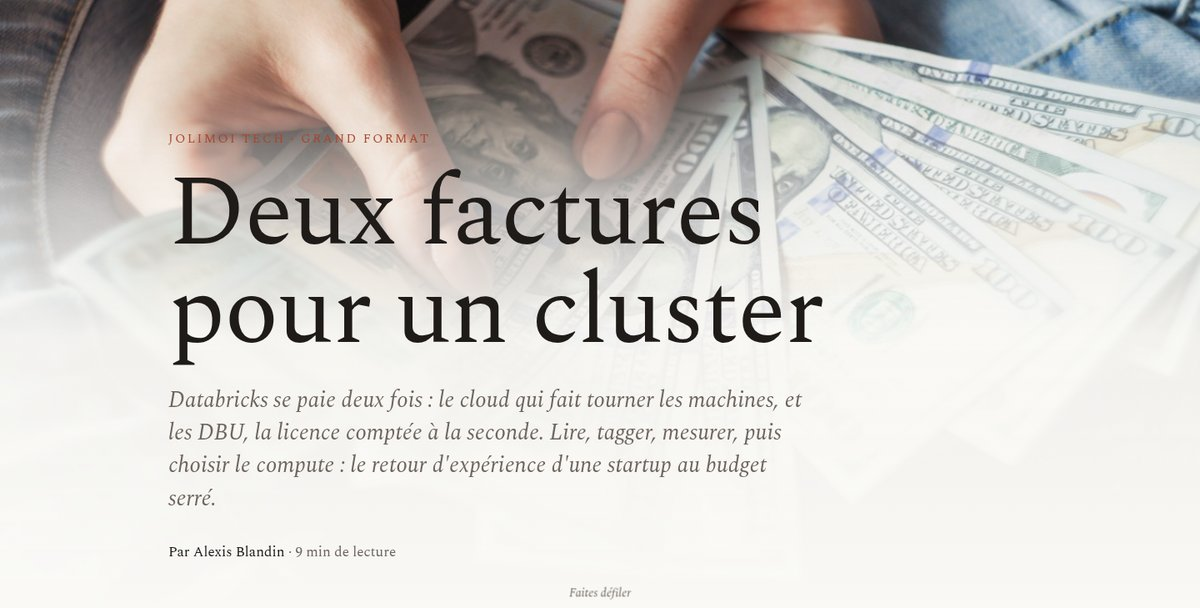
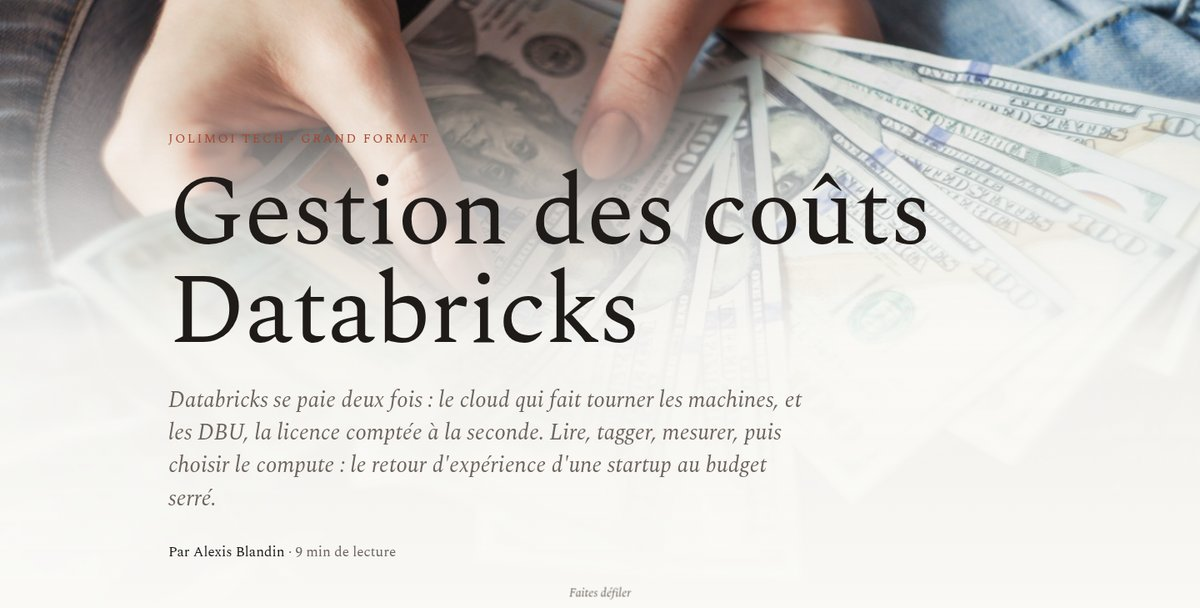
fix(works): restore the original article titles on the four long reads (#147)

Changed region(s): [[0.1233, 0.4375, 0.6783, 0.5938], [0.2467, 0.2812, 0.7708, 0.4062], [0.1233, 0.2812, 0.2158, 0.4062]]

diff --git a/longread/pieges-passage-echelle.html b/longread/pieges-passage-echelle.html
@@ -4,12 +4,12 @@ permalink: /longread/pieges-passage-echelle/
 sitemap: false
 work: true
 kind: longread
-title: "Les pièges qu'on se tend"
+title: "Les pièges cachés du passage à l'échelle des opérations data, et comment les surmonter"
 date: 2025-01-28
 excerpt: "Passer à l'échelle des opérations data : cinq règles et les pièges qu'elles évitent, tirées d'échanges avec des Head of Data, CTO, CEO et CPO."
 excerpt_en: "Scaling data operations: five rules and the traps they avoid, drawn from conversations with Heads of Data, CTOs, CEOs and CPOs."
 header_image: /assets/images/travaux/pieges-passage-echelle.jpg
-header_image_alt: "Ouverture du grand format Les pièges qu'on se tend"
+header_image_alt: "Ouverture du grand format Les pièges cachés du passage à l'échelle des opérations data, et comment les surmonter"
 redirect_from:
   - /fr/2025/01/28/les-pieges-caches-du-passage-a-echelle-des-operations-data/
   - /en/2025/01/28/the-hidden-traps-of-scaling-data-operations-and-ho/
@@ -19,9 +19,9 @@ redirect_from:
 <head>
   <meta charset="utf-8">
   <meta name="viewport" content="width=device-width, initial-scale=1, viewport-fit=cover">
-  <title>Les pièges qu'on se tend</title>
+  <title>Les pièges cachés du passage à l'échelle des opérations data, et comment les surmonter</title>
   <meta name="description" content="Grand format : les pièges du passage à l'échelle des opérations data.">
-  <meta property="og:title" content="Les pièges qu'on se tend">
+  <meta property="og:title" content="Les pièges cachés du passage à l'échelle des opérations data, et comment les surmonter">
   <meta property="og:type" content="article">
   <meta property="og:url" content="https://11h.dev/longread/pieges-passage-echelle/">
   <meta property="og:image" content="https://11h.dev/assets/images/travaux/pieges-passage-echelle.jpg">
@@ -33,7 +33,7 @@ redirect_from:
   </style>
 </head>
 <body>
-  <iframe id="deck" src="/apps/pieges-passage-echelle/" title="Les pièges qu'on se tend" allow="fullscreen" allowfullscreen></iframe>
+  <iframe id="deck" src="/apps/pieges-passage-echelle/" title="Les pièges cachés du passage à l'échelle des opérations data, et comment les surmonter" allow="fullscreen" allowfullscreen></iframe>
   <script>document.getElementById('deck').addEventListener('load', e => e.target.contentWindow.focus());</script>
 </body>
 </html>

diff --git a/longread/multilabel-llm.html b/longread/multilabel-llm.html
@@ -4,13 +4,13 @@ permalink: /longread/multilabel-llm/
 sitemap: false
 work: true
 kind: longread
-title: "Un livre, plusieurs rayons"
+title: "Multi-label Classification Problems with Large Language Models"
 date: 2024-08-06
 event: "Jolimoi Tech"
 excerpt: "Classifier du texte en multi-label avec un LLM, sans jeu d'entraînement : few-shot, coût des tokens, métriques et production. Avec Martin Labenne, d'après notre article sur le blog tech de Jolimoi."
 excerpt_en: "Multi-label text classification with an LLM, without a training set: few-shot prompting, token costs, metrics and production. With Martin Labenne, based on our article on the Jolimoi tech blog."
 header_image: /assets/images/travaux/multilabel-llm.jpg
-header_image_alt: "Ouverture du grand format Un livre, plusieurs rayons"
+header_image_alt: "Ouverture du grand format Multi-label Classification Problems with Large Language Models"
 redirect_from:
   - /talk/multilabel-llm/
 ---
@@ -19,9 +19,9 @@ redirect_from:
 <head>
   <meta charset="utf-8">
   <meta name="viewport" content="width=device-width, initial-scale=1, viewport-fit=cover">
-  <title>Un livre, plusieurs rayons</title>
+  <title>Multi-label Classification Problems with Large Language Models</title>
   <meta name="description" content="Grand format : classifier du texte en multi-label avec un LLM. Alexis Blandin et Martin Labenne, Jolimoi.">
-  <meta property="og:title" content="Un livre, plusieurs rayons">
+  <meta property="og:title" content="Multi-label Classification Problems with Large Language Models">
   <meta property="og:type" content="article">
   <meta property="og:url" content="https://11h.dev/longread/multilabel-llm/">
   <meta property="og:image" content="https://11h.dev/assets/images/travaux/multilabel-llm.jpg">
@@ -33,7 +33,7 @@ redirect_from:
   </style>
 </head>
 <body>
-  <iframe id="deck" src="/apps/multilabel-llm/" title="Un livre, plusieurs rayons" allow="fullscreen" allowfullscreen></iframe>
+  <iframe id="deck" src="/apps/multilabel-llm/" title="Multi-label Classification Problems with Large Language Models" allow="fullscreen" allowfullscreen></iframe>
   <script>document.getElementById('deck').addEventListener('load', e => e.target.contentWindow.focus());</script>
 </body>
 </html>

diff --git a/longread/mysql-s3-dms.html b/longread/mysql-s3-dms.html
@@ -4,12 +4,12 @@ permalink: /longread/mysql-s3-dms/
 sitemap: false
 work: true
 kind: longread
-title: "Deux ans pour ne plus y penser"
+title: "MySQL vers S3 avec AWS DMS : ce qui marche vraiment en production"
 date: 2025-12-15
 excerpt: "MySQL vers S3 avec AWS DMS : sept leçons de production, de la partition au binlog, pour ingérer des centaines de To sans presque aucune maintenance."
 excerpt_en: "MySQL to S3 with AWS DMS: seven production lessons, from partitioning to binlogs, to ingest hundreds of TB with almost no maintenance."
 header_image: /assets/images/travaux/mysql-s3-dms.jpg
-header_image_alt: "Ouverture du grand format Deux ans pour ne plus y penser"
+header_image_alt: "Ouverture du grand format MySQL vers S3 avec AWS DMS : ce qui marche vraiment en production"
 redirect_from:
   - /fr/2025/12/15/mysql-vers-s3-avec-aws-dms-ce-qui-marche-vraiment-en-prod/
   - /en/2025/12/15/mysql-to-s3-with-aws-dms-what-actually-works-in-pr/
@@ -19,9 +19,9 @@ redirect_from:
 <head>
   <meta charset="utf-8">
   <meta name="viewport" content="width=device-width, initial-scale=1, viewport-fit=cover">
-  <title>Deux ans pour ne plus y penser</title>
+  <title>MySQL vers S3 avec AWS DMS : ce qui marche vraiment en production</title>
   <meta name="description" content="Grand format : MySQL vers S3 avec AWS DMS, ce qui marche en production.">
-  <meta property="og:title" content="Deux ans pour ne plus y penser">
+  <meta property="og:title" content="MySQL vers S3 avec AWS DMS : ce qui marche vraiment en production">
   <meta property="og:type" content="article">
   <meta property="og:url" content="https://11h.dev/longread/mysql-s3-dms/">
   <meta property="og:image" content="https://11h.dev/assets/images/travaux/mysql-s3-dms.jpg">
@@ -33,7 +33,7 @@ redirect_from:
   </style>
 </head>
 <body>
-  <iframe id="deck" src="/apps/mysql-s3-dms/" title="Deux ans pour ne plus y penser" allow="fullscreen" allowfullscreen></iframe>
+  <iframe id="deck" src="/apps/mysql-s3-dms/" title="MySQL vers S3 avec AWS DMS : ce qui marche vraiment en production" allow="fullscreen" allowfullscreen></iframe>
   <script>document.getElementById('deck').addEventListener('load', e => e.target.contentWindow.focus());</script>
 </body>
 </html>

diff --git a/longread/databricks-couts.html b/longread/databricks-couts.html
@@ -4,13 +4,13 @@ permalink: /longread/databricks-couts/
 sitemap: false
 work: true
 kind: longread
-title: "Deux factures pour un cluster"
+title: "Gestion des coûts Databricks"
 date: 2024-06-17
 event: "Meetup Databricks"
 excerpt: "Databricks se paie deux fois, en cloud et en DBU. Lire la facture, tagger, interroger les tables système, choisir le compute et faire le calcul de Photon."
 excerpt_en: "Databricks bills you twice, for the cloud and for DBUs. Reading the bill, tagging, querying system tables, choosing compute and doing the Photon math."
 header_image: /assets/images/travaux/databricks-couts.jpg
-header_image_alt: "Ouverture du grand format Deux factures pour un cluster"
+header_image_alt: "Ouverture du grand format Gestion des coûts Databricks"
 redirect_from:
   - /fr/2024/06/17/gestion-des-couts-databricks/
   - /en/2024/06/17/databricks-cost-management/
@@ -20,9 +20,9 @@ redirect_from:
 <head>
   <meta charset="utf-8">
   <meta name="viewport" content="width=device-width, initial-scale=1, viewport-fit=cover">
-  <title>Deux factures pour un cluster</title>
+  <title>Gestion des coûts Databricks</title>
   <meta name="description" content="Grand format : maîtriser les coûts Databricks, retour d'expérience Jolimoi.">
-  <meta property="og:title" content="Deux factures pour un cluster">
+  <meta property="og:title" content="Gestion des coûts Databricks">
   <meta property="og:type" content="article">
   <meta property="og:url" content="https://11h.dev/longread/databricks-couts/">
   <meta property="og:image" content="https://11h.dev/assets/images/travaux/databricks-couts.jpg">
@@ -34,7 +34,7 @@ redirect_from:
   </style>
 </head>
 <body>
-  <iframe id="deck" src="/apps/databricks-couts/" title="Deux factures pour un cluster" allow="fullscreen" allowfullscreen></iframe>
+  <iframe id="deck" src="/apps/databricks-couts/" title="Gestion des coûts Databricks" allow="fullscreen" allowfullscreen></iframe>
   <script>document.getElementById('deck').addEventListener('load', e => e.target.contentWindow.focus());</script>
 </body>
 </html>

diff --git a/apps/mysql-s3-dms/index.html b/apps/mysql-s3-dms/index.html
@@ -3,7 +3,7 @@
 <head>
 <meta charset="utf-8">
 <meta name="viewport" content="width=device-width, initial-scale=1, viewport-fit=cover">
-<title>Deux ans pour ne plus y penser</title>
+<title>MySQL vers S3 avec AWS DMS : ce qui marche vraiment en production</title>
 <meta name="description" content="MySQL vers S3 avec AWS DMS : sept leçons de production, de la partition au binlog, pour ingérer des centaines de To sans presque aucune maintenance.">
 <link rel="preconnect" href="https://fonts.googleapis.com">
 <link rel="preconnect" href="https://fonts.gstatic.com" crossorigin>
@@ -47,7 +47,7 @@
 <body>
 
 <header id="bar" aria-hidden="true">
-  <span class="t">Deux ans pour ne plus y penser</span>
+  <span class="t">MySQL vers S3 avec AWS DMS : ce qui marche vraiment en production</span>
   <span class="c" id="barChapter"></span>
   <span class="p" id="barProgress"></span>
 </header>
@@ -57,8 +57,8 @@
   <div class="veil"></div>
   <div class="inner">
     <div class="kicker">Retour d'expérience · Grand format</div>
-    <h1>Deux ans pour<br>ne plus y penser</h1>
-    <p class="lede">MySQL vers S3 avec AWS DMS : ce qui marche vraiment en production. Sept leçons, apprises à nos dépens, pour ingérer des centaines de To sans presque aucune maintenance.</p>
+    <h1 style="font-size:clamp(38px, 5vw, 74px)">MySQL vers S3 avec AWS DMS&nbsp;: ce qui marche vraiment en production</h1>
+    <p class="lede">Sept leçons apprises à nos dépens pour ingérer des centaines de To avec presque zéro maintenance. Il a fallu deux ans pour en arriver là.</p>
     <p class="by">Par Alexis Blandin <span>· 5 min de lecture</span></p>
   </div>
   <div class="scroll-cue">Faites défiler</div>

diff --git a/apps/pieges-passage-echelle/index.html b/apps/pieges-passage-echelle/index.html
@@ -3,7 +3,7 @@
 <head>
 <meta charset="utf-8">
 <meta name="viewport" content="width=device-width, initial-scale=1, viewport-fit=cover">
-<title>Les pièges qu'on se tend</title>
+<title>Les pièges cachés du passage à l'échelle des opérations data, et comment les surmonter</title>
 <meta name="description" content="Passer à l'échelle des opérations data : cinq règles et les pièges qu'elles évitent, tirées d'échanges avec des Head of Data, CTO, CEO et CPO.">
 <link rel="preconnect" href="https://fonts.googleapis.com">
 <link rel="preconnect" href="https://fonts.gstatic.com" crossorigin>
@@ -31,7 +31,7 @@
 <body>
 
 <header id="bar" aria-hidden="true">
-  <span class="t">Les pièges qu'on se tend</span>
+  <span class="t">Les pièges cachés du passage à l'échelle des opérations data, et comment les surmonter</span>
   <span class="c" id="barChapter"></span>
   <span class="p" id="barProgress"></span>
 </header>
@@ -41,7 +41,7 @@
   <div class="veil"></div>
   <div class="inner">
     <div class="kicker">Grand format · Organisation data</div>
-    <h1>Les pièges<br>qu'on se tend</h1>
+    <h1 style="font-size:clamp(36px, 4.6vw, 68px)">Les pièges cachés du passage à l'échelle des opérations data, et comment les surmonter</h1>
     <p class="lede">Passer à l'échelle des opérations data n'est pas simple, mais la plupart des obstacles sont prévisibles et évitables. Les plus grands défis sont souvent auto-infligés.</p>
     <p class="by">Par Alexis Blandin <span>· 4 min de lecture</span></p>
   </div>

diff --git a/apps/multilabel-llm/index.html b/apps/multilabel-llm/index.html
@@ -3,7 +3,7 @@
 <head>
 <meta charset="utf-8">
 <meta name="viewport" content="width=device-width, initial-scale=1, viewport-fit=cover">
-<title>Un livre, plusieurs rayons</title>
+<title>Multi-label Classification Problems with Large Language Models</title>
 <meta name="description" content="Classifier du texte en multi-label avec un LLM : few-shot, coût des tokens, métriques et production. Alexis Blandin et Martin Labenne, Jolimoi.">
 <link rel="preconnect" href="https://fonts.googleapis.com">
 <link rel="preconnect" href="https://fonts.gstatic.com" crossorigin>
@@ -260,7 +260,7 @@
 <body>
 
 <header id="bar" aria-hidden="true">
-  <span class="t">Un livre, plusieurs rayons</span>
+  <span class="t">Multi-label Classification Problems with Large Language Models</span>
   <span class="c" id="barChapter"></span>
   <span class="p" id="barProgress"></span>
 </header>
@@ -271,7 +271,7 @@
   <div class="veil"></div>
   <div class="inner">
     <div class="kicker">Jolimoi Tech · Grand format</div>
-    <h1>Un livre,<br>plusieurs rayons</h1>
+    <h1 style="font-size:clamp(40px, 5.4vw, 80px)">Multi-label Classification Problems with Large Language Models</h1>
     <p class="lede">Classer un texte dans plusieurs catégories à la fois demandait des données annotées en masse et un modèle à entraîner. Un LLM et quelques exemples raccourcissent le chemin. Ils ne dispensent pas de mesurer.</p>
     <p class="by">Par Alexis Blandin <span>et</span> Martin Labenne <span>· 10 min de lecture</span></p>
   </div>

diff --git a/apps/databricks-couts/index.html b/apps/databricks-couts/index.html
@@ -3,7 +3,7 @@
 <head>
 <meta charset="utf-8">
 <meta name="viewport" content="width=device-width, initial-scale=1, viewport-fit=cover">
-<title>Deux factures pour un cluster</title>
+<title>Gestion des coûts Databricks</title>
 <meta name="description" content="Maîtriser les coûts Databricks : lire la facture, tagger, interroger les tables système, choisir le compute, faire le calcul de Photon. Retour d'expérience Jolimoi.">
 <link rel="preconnect" href="https://fonts.googleapis.com">
 <link rel="preconnect" href="https://fonts.gstatic.com" crossorigin>
@@ -77,7 +77,7 @@
 <body>
 
 <header id="bar" aria-hidden="true">
-  <span class="t">Deux factures pour un cluster</span>
+  <span class="t">Gestion des coûts Databricks</span>
   <span class="c" id="barChapter"></span>
   <span class="p" id="barProgress"></span>
 </header>
@@ -87,7 +87,7 @@
   <div class="veil"></div>
   <div class="inner">
     <div class="kicker">Jolimoi Tech · Grand format</div>
-    <h1>Deux factures<br>pour un cluster</h1>
+    <h1>Gestion des coûts<br>Databricks</h1>
     <p class="lede">Databricks se paie deux fois : le cloud qui fait tourner les machines, et les DBU, la licence comptée à la seconde. Lire, tagger, mesurer, puis choisir le compute : le retour d'expérience d'une startup au budget serré.</p>
     <p class="by">Par Alexis Blandin <span>· 9 min de lecture</span></p>
   </div>
